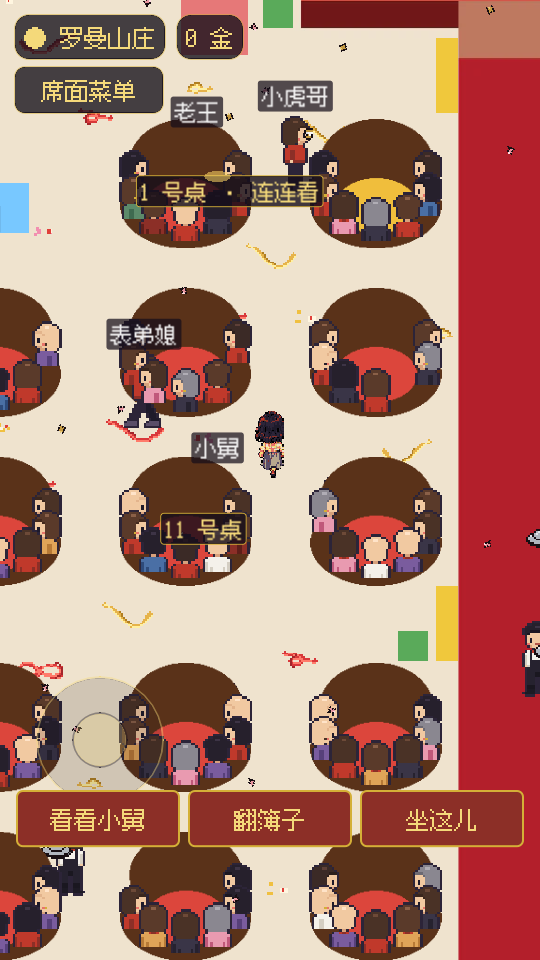
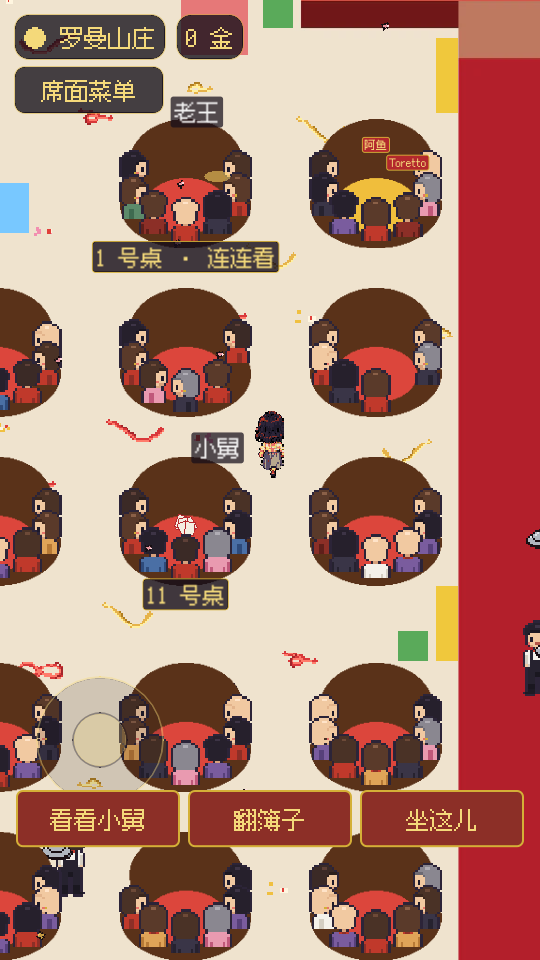
照 03、04 改五样：55 桌桌牌挪到桌下沿、亲友和主桌家人长相按称呼分男女、称呼牌不叠不被屏幕边切、主桌 1/2 号空座红座签、big_rel_card 预设

diff --git a/godot/tools/layout_55/build_graybox55.py b/godot/tools/layout_55/build_graybox55.py
@@ -37,10 +37,12 @@ spec.loader.exec_module(B)
 # 椅子从正北（背对婚礼台、面朝大门那把）起顺时针数；谁坐哪把是 02 排的，【待阿鱼定】，改这张表重跑就行。
 # 别的亲友（大爸一家、周叔他们、四孃、小舅……）这一版不做：阿鱼要他们开席前走动、开席后敬酒打牌，玩法 01 先写说明给阿鱼过目
 FAMILY = {"table": "MAIN", "reserved": {"1": "阿鱼", "2": "Toretto"}, "seats": [
-    {"chair": 3, "title": "爷爷"}, {"chair": 4, "title": "奶奶"}, {"chair": 5, "title": "爸爸"}, {"chair": 6, "title": "妈妈"},
-    {"chair": 7, "title": "弟弟"}, {"chair": 8, "title": "弟妹"}, {"chair": 9, "title": "外公"}, {"chair": 10, "title": "外婆"}]}
+    {"chair": 3, "title": "爷爷", "sex": "m", "elder": True}, {"chair": 4, "title": "奶奶", "sex": "f", "elder": True}, {"chair": 5, "title": "爸爸", "sex": "m"}, {"chair": 6, "title": "妈妈", "sex": "f"},
+    {"chair": 7, "title": "弟弟", "sex": "m"}, {"chair": 8, "title": "弟妹", "sex": "f"}, {"chair": 9, "title": "外公", "sex": "m", "elder": True}, {"chair": 10, "title": "外婆", "sex": "f", "elder": True}]}
 
 
+# sex：长相按称呼分男女（04 9/29 那张对照表：爸、叔、哥、舅、姑爷、公是男；娘、孃、嫂、妈、媳、婆是女），从现有宾客长相里挑，不画新图；
+# elder：老人（爷爷奶奶外公外婆），女的挑灰头发那几种
 # 亲友 NPC（01 D 9/29，照 docs/宴会厅-亲友NPC-玩家说明.md a108150，阿鱼点过头）：18 位。
 # relation 照那页表里的原话抄；【待讨论】的几位空着，身份卡上只写称呼。没有男方父母、公婆、亲家（出阁宴）。
 # table：开席坐哪桌（02 定：主桌附近、不是 T1～T6 游戏桌的 T9、T11、T7）；group：开席前找熟人先找同一组的；
@@ -50,24 +52,24 @@ RELATIVES = {
     "tz_hours": 8,                     # 按北京时间算，不看手机时区
     "cards_table": "T11",
     "people": [
-        {"title": "大爸", "relation": "爸爸的大哥", "group": "大爸家", "table": "T9", "toast": True},
-        {"title": "大娘", "relation": "大哥的爱人", "group": "大爸家", "table": "T9", "toast": True},
-        {"title": "小虎哥", "relation": "大爸的大儿子", "group": "大爸家", "table": "T9", "toast": True},
-        {"title": "大嫂", "relation": "小虎哥的爱人", "group": "大爸家", "table": "T9", "toast": True},
-        {"title": "二爸", "relation": "爸爸的二哥", "group": "二爸家", "table": "T9", "toast": True},
-        {"title": "二娘", "relation": "二哥的爱人", "group": "二爸家", "table": "T9", "toast": True},
-        {"title": "二孃", "relation": "妈妈的堂姐", "group": "二爸家", "table": "T9", "toast": True},
-        {"title": "四孃", "relation": "", "group": "四孃家", "table": "T11", "cards": True},
-        {"title": "四姑爷", "relation": "", "group": "四孃家", "table": "T11", "cards": True},
-        {"title": "六孃", "relation": "", "group": "六孃家", "table": "T11", "cards": True},
-        {"title": "六姑爷", "relation": "", "group": "六孃家", "table": "T11", "cards": True},
-        {"title": "小舅", "relation": "", "group": "小舅家", "table": "T11", "toast": True},
-        {"title": "小舅妈", "relation": "", "group": "小舅家", "table": "T11", "toast": True},
-        {"title": "周叔", "relation": "阿鱼爸爸最好的朋友", "group": "爸爸的朋友", "table": "T7", "toast": True},
-        {"title": "李叔", "relation": "阿鱼爸爸最好的朋友", "group": "爸爸的朋友", "table": "T7", "toast": True},
-        {"title": "丹孃", "relation": "周叔的爱人", "group": "爸爸的朋友", "table": "T7", "toast": True},
-        {"title": "小江", "relation": "阿鱼初中起的好朋友，男生，现在最熟的老朋友", "group": "阿鱼的朋友", "table": "T7", "toast": True},
-        {"title": "表弟媳", "relation": "阿鱼表弟的媳妇，有两个女儿", "group": "阿鱼的朋友", "table": "T7", "toast": True},
+        {"title": "大爸", "sex": "m", "relation": "爸爸的大哥", "group": "大爸家", "table": "T9", "toast": True},
+        {"title": "大娘", "sex": "f", "relation": "大哥的爱人", "group": "大爸家", "table": "T9", "toast": True},
+        {"title": "小虎哥", "sex": "m", "relation": "大爸的大儿子", "group": "大爸家", "table": "T9", "toast": True},
+        {"title": "大嫂", "sex": "f", "relation": "小虎哥的爱人", "group": "大爸家", "table": "T9", "toast": True},
+        {"title": "二爸", "sex": "m", "relation": "爸爸的二哥", "group": "二爸家", "table": "T9", "toast": True},
+        {"title": "二娘", "sex": "f", "relation": "二哥的爱人", "group": "二爸家", "table": "T9", "toast": True},
+        {"title": "二孃", "sex": "f", "relation": "妈妈的堂姐", "group": "二爸家", "table": "T9", "toast": True},
+        {"title": "四孃", "sex": "f", "relation": "", "group": "四孃家", "table": "T11", "cards": True},
+        {"title": "四姑爷", "sex": "m", "relation": "", "group": "四孃家", "table": "T11", "cards": True},
+        {"title": "六孃", "sex": "f", "relation": "", "group": "六孃家", "table": "T11", "cards": True},
+        {"title": "六姑爷", "sex": "m", "relation": "", "group": "六孃家", "table": "T11", "cards": True},
+        {"title": "小舅", "sex": "m", "relation": "", "group": "小舅家", "table": "T11", "toast": True},
+        {"title": "小舅妈", "sex": "f", "relation": "", "group": "小舅家", "table": "T11", "toast": True},
+        {"title": "周叔", "sex": "m", "relation": "阿鱼爸爸最好的朋友", "group": "爸爸的朋友", "table": "T7", "toast": True},
+        {"title": "李叔", "sex": "m", "relation": "阿鱼爸爸最好的朋友", "group": "爸爸的朋友", "table": "T7", "toast": True},
+        {"title": "丹孃", "sex": "f", "relation": "周叔的爱人", "group": "爸爸的朋友", "table": "T7", "toast": True},
+        {"title": "小江", "sex": "m", "relation": "阿鱼初中起的好朋友，男生，现在最熟的老朋友", "group": "阿鱼的朋友", "table": "T7", "toast": True},
+        {"title": "表弟媳", "sex": "f", "relation": "阿鱼表弟的媳妇，有两个女儿", "group": "阿鱼的朋友", "table": "T7", "toast": True},
     ]}
 
 

diff --git a/godot/回执/亲友NPC-回执.md b/godot/回执/亲友NPC-回执.md
@@ -75,3 +75,35 @@
 4. **开席时亲友从很远走回座位要十几秒到半分钟**（厅长 2714 像素，他们慢慢走）。刚到饭点那一阵，厅里会有人往回走，不是一下全坐好。
 5. **表弟媳的两个女儿没做**，等阿鱼给叫法。
 6. **只在客户端**：亲友是本地画的，每台手机看到的走位不一样，不同步。
+
+## 9/29 夜：照 03（f49ec57）、04（79f9b71）的意见改了五样（01 D 派）
+
+1. **桌号牌挪到桌子下沿**（04 新 1）：55 桌厅所有桌的牌都从桌心往下挪 55，不再压桌面。
+   - T11 的牌、主桌、1 号桌都露出桌面。
+   - 挪完以后发现桌心正中会被前排坐着的人的头挡住，打牌那摞牌也挪到桌面靠后那半（桌心往上 20），站近就看得见。
+   - 第 44 版厅的桌牌没动。
+2. **长相按称呼分男女**（04 新 5）：照 04 的男女对照表，从现有 20 种宾客长相里挑，不画新图。
+   - 男：短发或光头、没有金耳环、没有蝴蝶结，共 5 种；女：长发或扎辫子，共 11 种。
+   - 奶奶、外婆挑灰头发的那两种。
+   - 同性别的依次轮着发，一家人不撞脸。18 位亲友和主桌 8 位都按这个挑。
+   - 大爸现在是光头、没耳环。
+3. **称呼牌不叠、不被屏幕边切**（04 新 2、新 3）：跟名字牌第一轮 B4 同一条。
+   - 中点还在屏幕里的往里收，中点出了屏幕的先不挂；
+   - 挨着的错开一行，两块牌之间留 4 像素；抬两行还叠的先收起来。
+   - 测试：开席前走 30 秒叠 0 次；人从厅西边走到中间 20 秒，被屏幕边切 0 次。
+4. **主桌 1、2 号空座摆小红座签**（04 新 4）：椅子上各一张红底金字的「阿鱼」「Toretto」。
+   - 两把挨得近，两张签上下错开不叠。
+   - 真人本人坐上去那一张就收掉。
+5. **加了 `big_rel_card` 预设**（04 新 6）：走到大爸跟前、点开他的身份卡，截图见 `回执/亲友NPC-身份卡.png`（「大爸 / 爸爸的大哥 / 关上」）。
+
+**截图（重截）：**
+- `回执/亲友NPC-开席前.png`
+- `回执/亲友NPC-开席.png`：快进 45 秒，T11 桌上能看见牌；桌号牌在桌下沿
+- `回执/亲友NPC-身份卡.png`
+- `回执/出阁宴主桌-站在外婆跟前.png`：两张座签、桌号牌在桌下沿
+
+**测试：** 客户端 29 个全过（test_relatives 加了长相分男女、屏幕边不切；test_hall_big 加了桌牌位置、座签、本人坐上去座签收掉），桥测试过。
+
+**风险：**
+- 男的长相只有 5 种，13 位男的会有重复（主桌 4 位、亲友 9 位）。同一桌里不撞，隔桌会撞。
+- 名字牌、第 44 版桌牌往右歪那个老毛病照 01 定的下次派，这次只把 55 桌的桌牌和新加的牌子做对了。
